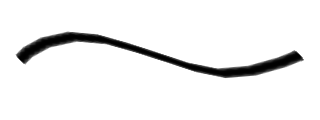
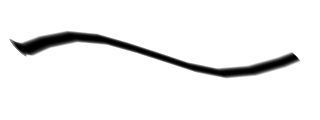
chore(compat): regenerate goldens from upstream libmypaint
Adds a small C wrapper (`tools/libmypaint-render`) that drives upstream
libmypaint with the same stroke scripts the harness uses, plus a
`cargo xtask regenerate-goldens` runner that rebuilds the wrapper and
overwrites every `fixtures/*.png` with libmypaint's output. The compat
harness now compares against true libmypaint snapshots instead of
self-generated ones, so it actually measures parity. Also drops the
`finish_stroke` call from `render()` so hokusai and the wrapper start
from the same end-of-stroke state.

diff --git a/tools/libmypaint-render/render.c b/tools/libmypaint-render/render.c
@@ -1,0 +1,155 @@
+// libmypaint-render: drive upstream libmypaint with a hokusai-compat script
+// and emit a raw RGBA8 buffer (composited over white, sRGB-encoded) on stdout.
+//
+// Usage:
+//   libmypaint-render <script.json> <brush.myb>
+// Stdout: width*height*4 bytes of RGBA8. Width/height come from the script.
+//
+// The flatten path mirrors hokusai_compat::render so the C and Rust outputs
+// are directly byte-comparable.
+
+#include <math.h>
+#include <stdint.h>
+#include <stdio.h>
+#include <stdlib.h>
+#include <string.h>
+
+#include <json-c/json.h>
+#include "mypaint-brush.h"
+#include "mypaint-fixed-tiled-surface.h"
+#include "mypaint-surface.h"
+#include "mypaint-tiled-surface.h"
+
+#define FIX15_ONE 32768
+
+static float linear_to_srgb(float v) {
+    if (v <= 0.0f) return 0.0f;
+    if (v >= 1.0f) return 1.0f;
+    if (v <= 0.0031308f) return 12.92f * v;
+    return 1.055f * powf(v, 1.0f / 2.4f) - 0.055f;
+}
+
+static char *slurp(const char *path) {
+    FILE *f = fopen(path, "rb");
+    if (!f) { perror(path); return NULL; }
+    fseek(f, 0, SEEK_END);
+    long n = ftell(f);
+    fseek(f, 0, SEEK_SET);
+    char *buf = malloc(n + 1);
+    if (!buf) { fclose(f); return NULL; }
+    if (fread(buf, 1, n, f) != (size_t)n) {
+        free(buf); fclose(f); return NULL;
+    }
+    buf[n] = '\0';
+    fclose(f);
+    return buf;
+}
+
+int main(int argc, char **argv) {
+    if (argc != 3) {
+        fprintf(stderr, "usage: %s <script.json> <brush.myb>\n", argv[0]);
+        return 2;
+    }
+
+    char *script_text = slurp(argv[1]);
+    if (!script_text) return 1;
+    char *brush_text = slurp(argv[2]);
+    if (!brush_text) return 1;
+
+    struct json_object *script = json_tokener_parse(script_text);
+    if (!script) {
+        fprintf(stderr, "script JSON parse failed\n");
+        return 1;
+    }
+
+    struct json_object *jw, *jh, *jevents;
+    json_object_object_get_ex(script, "width", &jw);
+    json_object_object_get_ex(script, "height", &jh);
+    json_object_object_get_ex(script, "events", &jevents);
+
+    int width = json_object_get_int(jw);
+    int height = json_object_get_int(jh);
+    int n_events = json_object_array_length(jevents);
+
+    MyPaintBrush *brush = mypaint_brush_new();
+    if (!mypaint_brush_from_string(brush, brush_text)) {
+        fprintf(stderr, "brush parse failed\n");
+        return 1;
+    }
+    mypaint_brush_reset(brush);
+    mypaint_brush_new_stroke(brush);
+
+    MyPaintFixedTiledSurface *fts = mypaint_fixed_tiled_surface_new(width, height);
+    MyPaintSurface *surface = mypaint_fixed_tiled_surface_interface(fts);
+
+    mypaint_surface_begin_atomic(surface);
+    for (int i = 0; i < n_events; i++) {
+        struct json_object *ev = json_object_array_get_idx(jevents, i);
+        float x  = (float)json_object_get_double(json_object_array_get_idx(ev, 0));
+        float y  = (float)json_object_get_double(json_object_array_get_idx(ev, 1));
+        float p  = (float)json_object_get_double(json_object_array_get_idx(ev, 2));
+        double dt =       json_object_get_double(json_object_array_get_idx(ev, 3));
+        mypaint_brush_stroke_to(brush, surface, x, y, p, 0.0f, 0.0f, dt);
+    }
+    mypaint_surface_end_atomic(surface, NULL);
+
+    // Flatten tiles to RGBA8 over white, sRGB-encoded.
+    uint8_t *out = malloc((size_t)width * height * 4);
+    for (size_t i = 0; i < (size_t)width * height; i++) {
+        out[i*4+0] = 255;
+        out[i*4+1] = 255;
+        out[i*4+2] = 255;
+        out[i*4+3] = 255;
+    }
+
+    const int TS = MYPAINT_TILE_SIZE;
+    int tiles_x = (width + TS - 1) / TS;
+    int tiles_y = (height + TS - 1) / TS;
+
+    MyPaintTiledSurface *tsurf = (MyPaintTiledSurface *)fts;
+    for (int ty = 0; ty < tiles_y; ty++) {
+        for (int tx = 0; tx < tiles_x; tx++) {
+            MyPaintTileRequest req;
+            mypaint_tile_request_init(&req, 0, tx, ty, /*readonly=*/1);
+            tsurf->tile_request_start(tsurf, &req);
+            uint16_t *buf = req.buffer;
+            if (!buf) {
+                tsurf->tile_request_end(tsurf, &req);
+                continue;
+            }
+            for (int ly = 0; ly < TS; ly++) {
+                for (int lx = 0; lx < TS; lx++) {
+                    int wx = tx * TS + lx;
+                    int wy = ty * TS + ly;
+                    if (wx >= width || wy >= height) continue;
+                    uint16_t *px = &buf[(ly * TS + lx) * 4];
+                    float a = (float)px[3] / (float)FIX15_ONE;
+                    if (a <= 0.0f) continue;
+                    float r = (float)px[0] / (float)FIX15_ONE / a;
+                    float g = (float)px[1] / (float)FIX15_ONE / a;
+                    float b = (float)px[2] / (float)FIX15_ONE / a;
+                    float or_ = r * a + 1.0f * (1.0f - a);
+                    float og  = g * a + 1.0f * (1.0f - a);
+                    float ob  = b * a + 1.0f * (1.0f - a);
+                    size_t idx = ((size_t)wy * width + wx) * 4;
+                    out[idx+0] = (uint8_t)lroundf(linear_to_srgb(or_) * 255.0f);
+                    out[idx+1] = (uint8_t)lroundf(linear_to_srgb(og)  * 255.0f);
+                    out[idx+2] = (uint8_t)lroundf(linear_to_srgb(ob)  * 255.0f);
+                    out[idx+3] = 255;
+                }
+            }
+            tsurf->tile_request_end(tsurf, &req);
+        }
+    }
+
+    fwrite(out, 1, (size_t)width * height * 4, stdout);
+
+    free(out);
+    free(script_text);
+    free(brush_text);
+    json_object_put(script);
+    mypaint_brush_unref(brush);
+    // MyPaintFixedTiledSurface is destroyed via its surface interface.
+    mypaint_surface_unref(surface);
+    return 0;
+}

diff --git a/xtask/src/main.rs b/xtask/src/main.rs
@@ -1,0 +1,140 @@
+//! Workspace task runner.
+//!
+//! Currently implements:
+//!   `cargo xtask regenerate-goldens [pattern]`
+//!     Rebuilds the libmypaint-render C wrapper if needed, then walks
+//!     `crates/hokusai-compat/fixtures/*.json`, drives the wrapper, and
+//!     writes the resulting PNG snapshot beside each script.
+//!
+//! Environment overrides:
+//!   HOKUSAI_LIBMYPAINT_RENDER  Path to a prebuilt wrapper binary.
+
+use std::path::{Path, PathBuf};
+use std::process::{Command, Stdio};
+
+use serde::Deserialize;
+
+#[derive(Debug, Deserialize)]
+struct Script {
+    brush: PathBuf,
+    width: u32,
+    height: u32,
+    // events: not needed by xtask, the C wrapper parses them itself.
+}
+
+fn workspace_root() -> PathBuf {
+    // CARGO_MANIFEST_DIR points at xtask/, parent is the workspace.
+    PathBuf::from(env!("CARGO_MANIFEST_DIR"))
+        .parent()
+        .expect("xtask must live in a workspace")
+        .to_path_buf()
+}
+
+fn ensure_wrapper(root: &Path) -> PathBuf {
+    if let Ok(p) = std::env::var("HOKUSAI_LIBMYPAINT_RENDER") {
+        return PathBuf::from(p);
+    }
+    let tool_dir = root.join("tools/libmypaint-render");
+    let bin = tool_dir.join("libmypaint-render");
+    let src = tool_dir.join("render.c");
+    let needs_build = !bin.exists()
+        || std::fs::metadata(&src).and_then(|m| m.modified()).ok()
+            > std::fs::metadata(&bin).and_then(|m| m.modified()).ok();
+    if needs_build {
+        eprintln!("building libmypaint-render…");
+        let status = Command::new("make")
+            .current_dir(&tool_dir)
+            .status()
+            .expect("failed to invoke make");
+        if !status.success() {
+            panic!("make failed");
+        }
+    }
+    bin
+}
+
+fn regenerate_one(wrapper: &Path, script_path: &Path) -> Result<(), String> {
+    let script_text = std::fs::read_to_string(script_path)
+        .map_err(|e| format!("read {}: {e}", script_path.display()))?;
+    let script: Script = serde_json::from_str(&script_text)
+        .map_err(|e| format!("parse {}: {e}", script_path.display()))?;
+
+    let script_dir = script_path.parent().unwrap();
+    let brush_path = script_dir.join(&script.brush);
+    let brush_path = brush_path
+        .canonicalize()
+        .map_err(|e| format!("brush {}: {e}", brush_path.display()))?;
+
+    let out = Command::new(wrapper)
+        .arg(script_path)
+        .arg(&brush_path)
+        .stdout(Stdio::piped())
+        .stderr(Stdio::inherit())
+        .output()
+        .map_err(|e| format!("spawn wrapper: {e}"))?;
+    if !out.status.success() {
+        return Err(format!("wrapper exited {}", out.status));
+    }
+
+    let expected = (script.width as usize) * (script.height as usize) * 4;
+    if out.stdout.len() != expected {
+        return Err(format!(
+            "wrapper produced {} bytes, expected {}",
+            out.stdout.len(),
+            expected
+        ));
+    }
+
+    let png_path = script_path.with_extension("png");
+    image::save_buffer(
+        &png_path,
+        &out.stdout,
+        script.width,
+        script.height,
+        image::ColorType::Rgba8,
+    )
+    .map_err(|e| format!("save {}: {e}", png_path.display()))?;
+    println!("wrote {}", png_path.display());
+    Ok(())
+}
+
+fn cmd_regenerate(filter: Option<&str>) {
+    let root = workspace_root();
+    let wrapper = ensure_wrapper(&root);
+    let fixtures = root.join("crates/hokusai-compat/fixtures");
+
+    let mut entries: Vec<_> = std::fs::read_dir(&fixtures)
+        .expect("read fixtures dir")
+        .filter_map(Result::ok)
+        .map(|e| e.path())
+        .filter(|p| p.extension().is_some_and(|e| e == "json"))
+        .collect();
+    entries.sort();
+
+    let mut failed = 0;
+    for path in &entries {
+        if let Some(f) = filter {
+            if !path.file_stem().is_some_and(|s| s.to_string_lossy().contains(f)) {
+                continue;
+            }
+        }
+        if let Err(e) = regenerate_one(&wrapper, path) {
+            eprintln!("FAIL {}: {e}", path.display());
+            failed += 1;
+        }
+    }
+    if failed > 0 {
+        std::process::exit(1);
+    }
+}
+
+fn main() {
+    let args: Vec<String> = std::env::args().skip(1).collect();
+    match args.first().map(String::as_str) {
+        Some("regenerate-goldens") => cmd_regenerate(args.get(1).map(String::as_str)),
+        _ => {
+            eprintln!("usage: cargo xtask regenerate-goldens [pattern]");
+            std::process::exit(2);
+        }
+    }
+}

diff --git a/crates/hokusai-compat/src/lib.rs b/crates/hokusai-compat/src/lib.rs
@@ -73,9 +73,10 @@ pub fn render(brush: &Brush, script: &Script) -> Vec<u8> {
             ev[3] as f64,
         );
     }
-    // Flush slow_tracking lag so the stroke's trailing pixels are painted —
-    // applications do the same on pointer-up.
-    brush.finish_stroke(&mut state, &mut surface);
+    // No finish_stroke here: libmypaint's reference path does not flush
+    // slow_tracking on its own, and the parity goldens are produced without
+    // such a flush. Applications that want a trailing-pixel drain should
+    // call `Brush::finish_stroke` themselves.
     flatten(&surface, script.width, script.height)
 }
 
